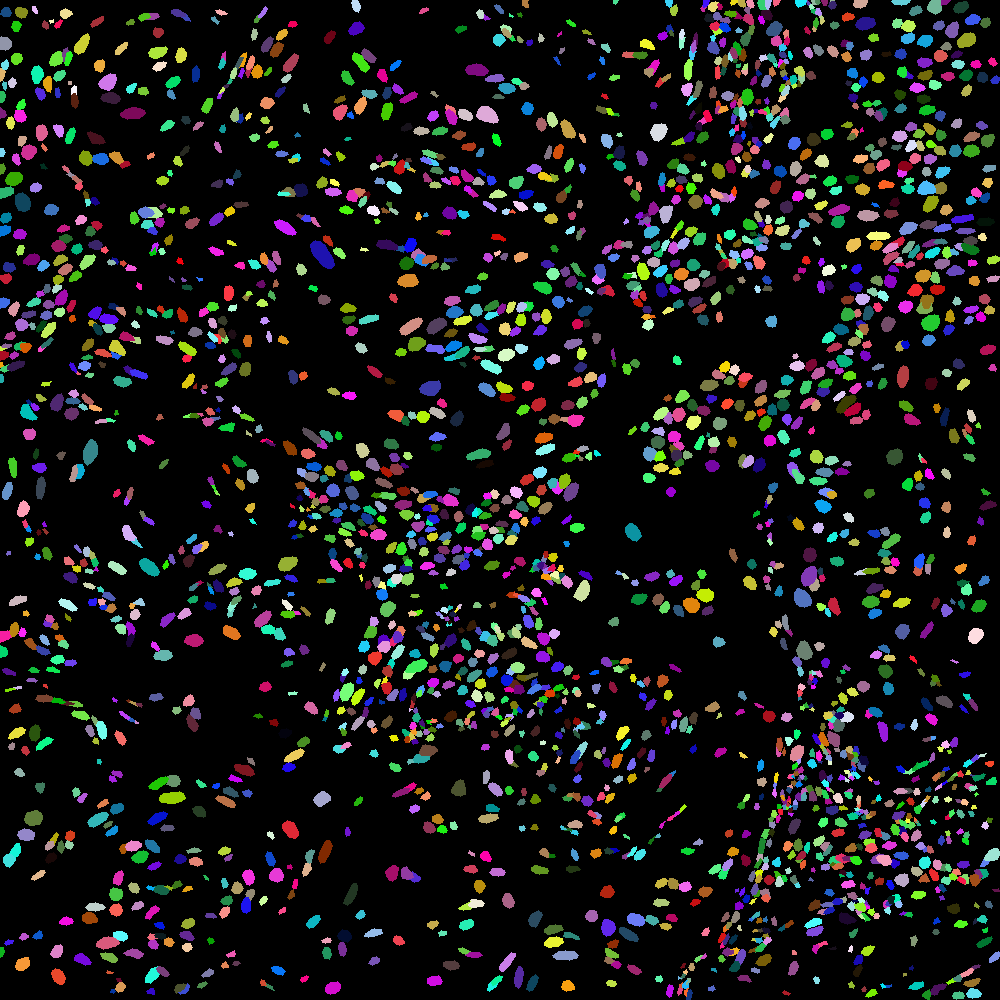
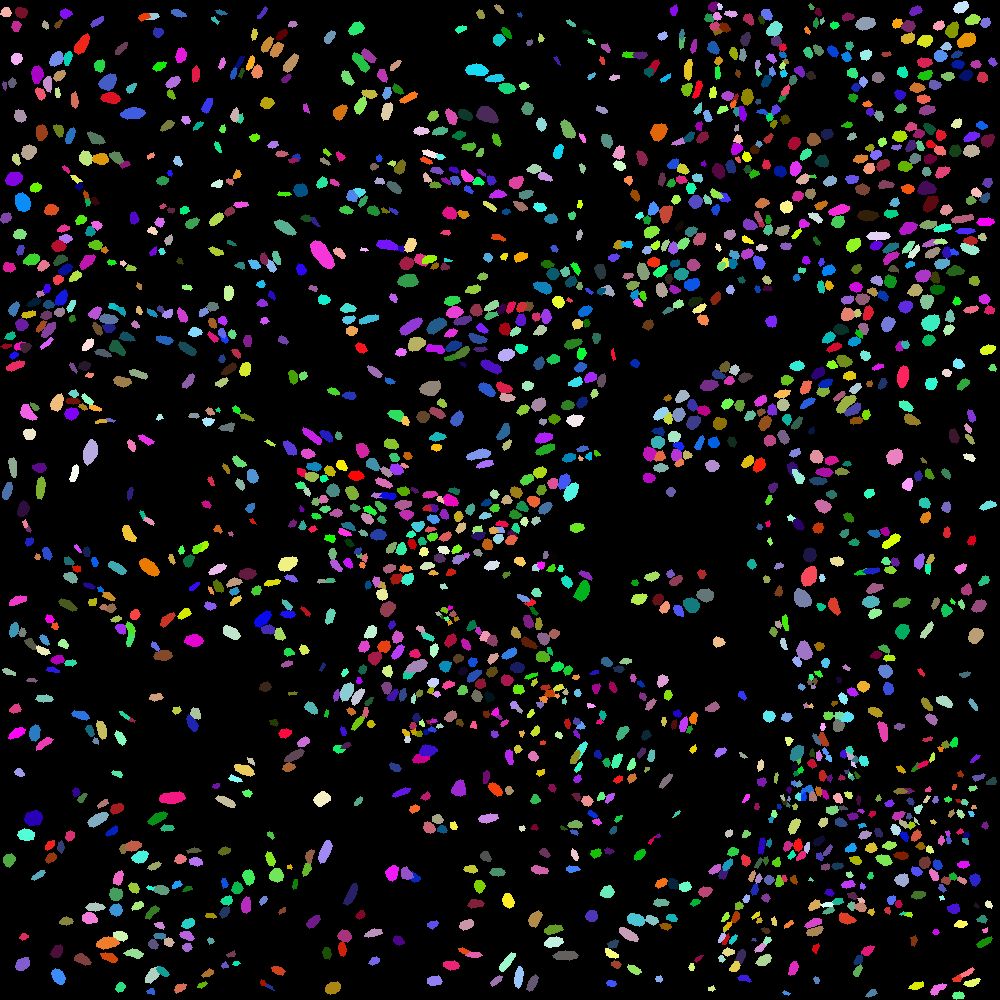
remove nuclei cut off at image boundaries

diff --git a/make_polygon_image.py b/make_polygon_image.py
@@ -6,14 +6,31 @@ from PIL import ImageDraw
 import random
 import geojson
 from glob import glob
+import math
 
 def format_coordinates(poly_coords):
+# PIL needs a list of tuples, QuPath exports list of lists
     clean_coords = []
     ind=0
     for coord in poly_coords:
         clean_coords.append(tuple(coord))
         ind+=1
     return clean_coords
+
+def detect_edge_polygons(poly_coords, img_width, img_height):
+# if two or more coordinates include x/y at the max boundaries
+# of the image it's an edge case
+    n_edge_values = 0
+    edge_values = [0, 1, img_width, img_height]
+    for coord in poly_coords:
+        x = math.ceil(coord[0]) # round up
+        y = math.ceil(coord[1]) # round up
+        if (x in edge_values) or (y in edge_values):
+            n_edge_values+=1
+    if n_edge_values >= 2:
+        return 1
+    else:
+        return 0
 
 # ================================================================
 out_path = 'export'
@@ -39,17 +56,20 @@ for gj_file in geojson_files:
         if json_obj["properties"]["objectType"] == "detection": # if it's a QuPath detection
             # get the polygon coordinates
             these_coords = json_obj["geometry"]["coordinates"][0]
-            # transform into the coord format needed for PIL
+            # transform into the format needed for PIL
             formatted_coords = format_coordinates(these_coords)
-            # make a unique RGB value for this polygon
-            unique_color = 0
-            while unique_color == 0:
-                color_code = (random.randrange(0, 255), random.randrange(0, 255), random.randrange(0, 255))
-                if color_code not in used_colors:
-                    used_colors.append(color_code)
-                    unique_color = 1
-            # draw the polygon
-            draw.polygon(formatted_coords, fill = color_code)
+            # remove edge nuclei
+            is_edge_case = detect_edge_polygons(formatted_coords, img_dims[0], img_dims[0])
+            if is_edge_case == 0:
+                # make a unique RGB value for this polygon
+                unique_color = 0
+                while unique_color == 0:
+                    color_code = (random.randrange(0, 255), random.randrange(0, 255), random.randrange(0, 255))
+                    if color_code not in used_colors:
+                        used_colors.append(color_code)
+                        unique_color = 1
+                # draw the polygon
+                draw.polygon(formatted_coords, fill = color_code)
 
     img3 = Image.blend(img, img2, 1)
     # img3 = Image.blend(img, img2, 0.5) # transparent overlay
